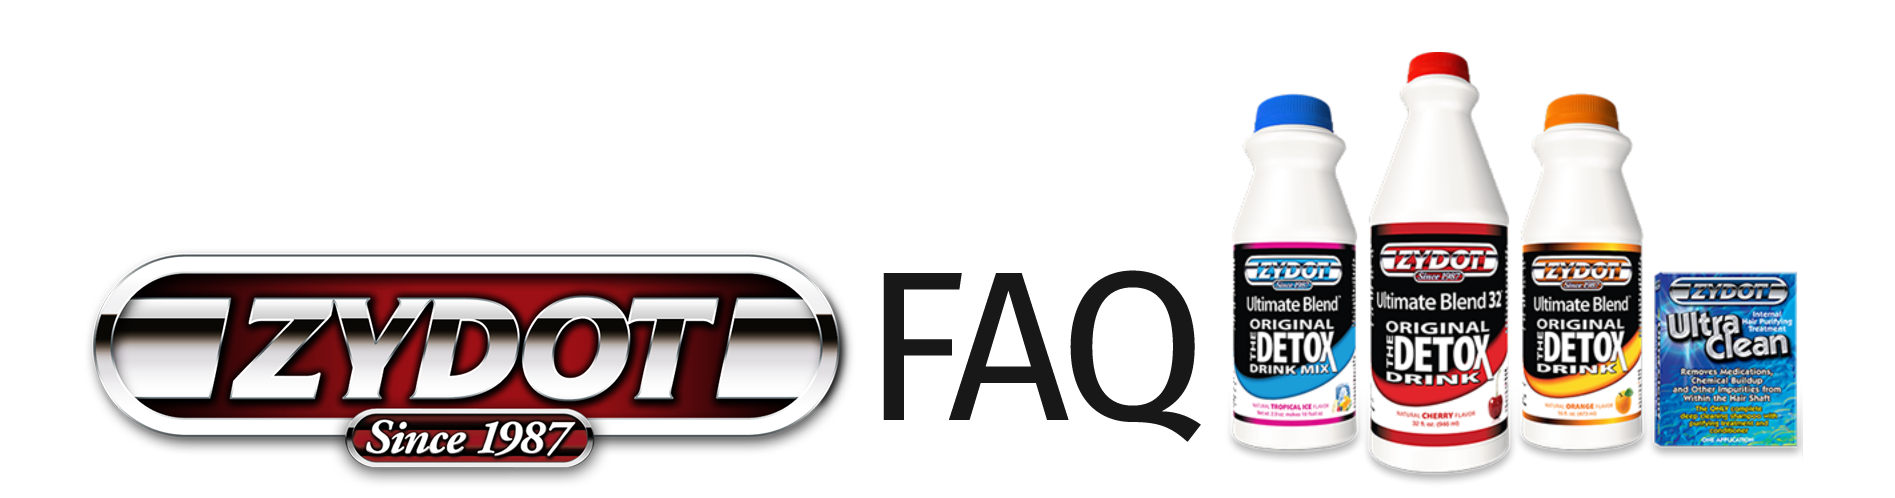
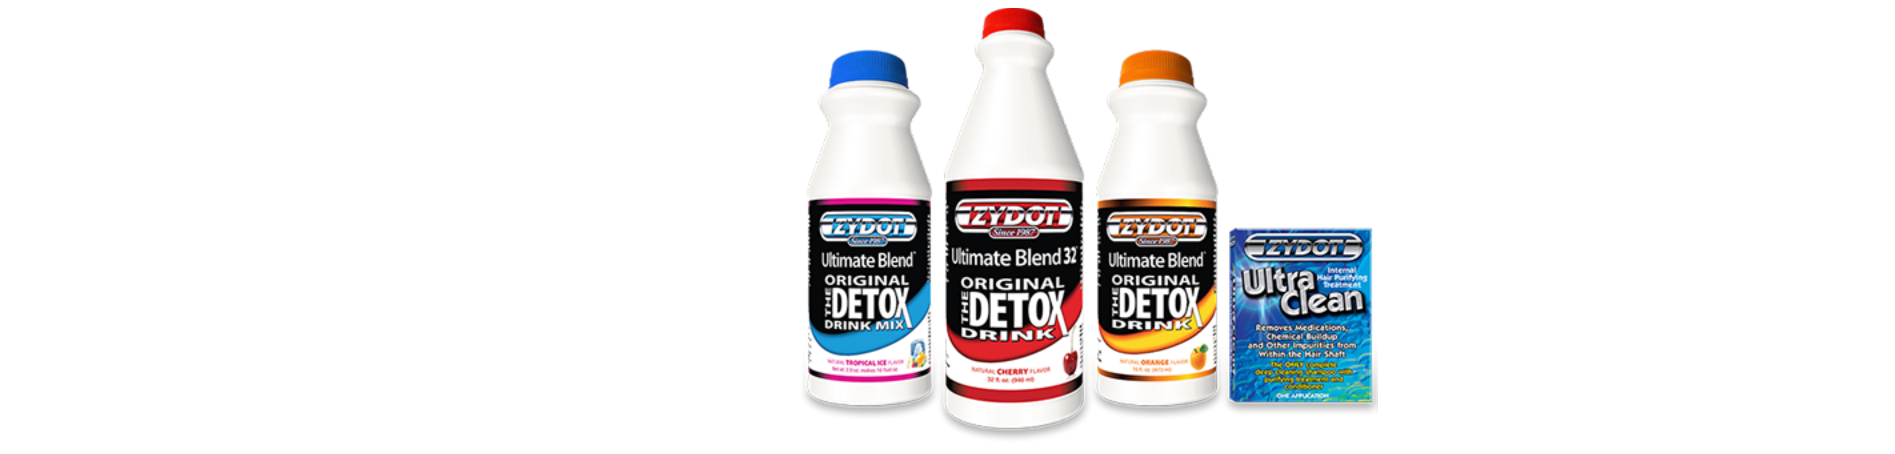
great progress on faq 10-10-24-1216

diff --git a/css/index.scss b/css/index.scss
@@ -217,6 +217,19 @@ body {
         max-height: 228px;
 
     }
+    
+    .header__zydot--invisible-area {
+
+        position: absolute; /* Or relative, depending on your layout */
+        top: 25px;          /* Adjust to position it vertically */
+        left: 350px;         /* Adjust to position it horizontally */
+        width: 255px;        /* Adjust to cover the desired width */
+        height: 90px;       /* Adjust to cover the desired height */
+        opacity: 0;
+        cursor: pointer;
+        z-index: 10;   
+
+    }
 
     //_ ████████████████████████████████████  HEADER MOBILE
     @media screen and (max-width: 760px) {
@@ -510,18 +523,27 @@ footer {
 
 //>  ████████████████████████████████████  FAQ
 
+.faq__header--container img {
+
+    max-width: 760px; /* Limits the image width to 760px */
+    width: 100%;     /* Makes the image fill its container width */
+    height: auto;  
+
+}
+
 .faq__container {
 
     display: grid;
     grid-template-columns: repeat(2, 1fr);
-    grid-template-rows: repeat(2, 1fr);
-    grid-templare-areas:
-        "header header"
+    grid-template-rows: repeat(1, 1fr);
+    grid-template-areas:
         "column-1 column-2";
     grid-gap: 20px;
     padding: 20px;
+    padding-top: 10px;
     max-width: 760px;
     background: white;
+    height: auto;
 }
 
 .faq__question {

diff --git a/css/index.css b/css/index.css
@@ -163,6 +163,16 @@ body {
   border-radius: 0 0 10px 10px;
   max-height: 228px;
 }
+.header__wrapper .header__zydot--invisible-area {
+  position: absolute; /* Or relative, depending on your layout */
+  top: 25px; /* Adjust to position it vertically */
+  left: 350px; /* Adjust to position it horizontally */
+  width: 255px; /* Adjust to cover the desired width */
+  height: 90px; /* Adjust to cover the desired height */
+  opacity: 0;
+  cursor: pointer;
+  z-index: 10;
+}
 @media screen and (max-width: 760px) {
   .header__wrapper {
     max-height: none;
@@ -362,15 +372,23 @@ footer {
     margin-right: clamp(24px, 3vw, 200px);
   }
 }
+.faq__header--container img {
+  max-width: 760px; /* Limits the image width to 760px */
+  width: 100%; /* Makes the image fill its container width */
+  height: auto;
+}
+
 .faq__container {
   display: grid;
   grid-template-columns: repeat(2, 1fr);
-  grid-template-rows: repeat(2, 1fr);
-  grid-templare-areas: "header header" "column-1 column-2";
+  grid-template-rows: repeat(1, 1fr);
+  grid-template-areas: "column-1 column-2";
   grid-gap: 20px;
   padding: 20px;
+  padding-top: 10px;
   max-width: 760px;
   background: white;
+  height: auto;
 }
 
 .faq__question {

diff --git a/faq.html b/faq.html
@@ -51,8 +51,15 @@
             </div>
 
             <div class="header__item header__item-4a"></div>
-        </div>
+            <div class="header__zydot--invisible-area">
 
+
+            </div>
+        </div>
+<div class="header__zydot--invisible-area">
+
+
+</div>
     </header>
     <h6><br></h6>
 
@@ -61,9 +68,14 @@
     </div>
     <h6><br></h6>
 
+<div class="faq__header--container">
+
+<img src="/img/new-faq.png" alt="">
+
+</div>
+
     <section class="faq__container">
-    <div>
-<img src="/img/new-faq.png" alt=""></div>
+   
         <div class="column">
             <p class='faq__question'>Do Zydot products really work?</p>
             <p class='faq__answer'>Yes, Zydot products do work! We are fortunate to have many return customers who are
